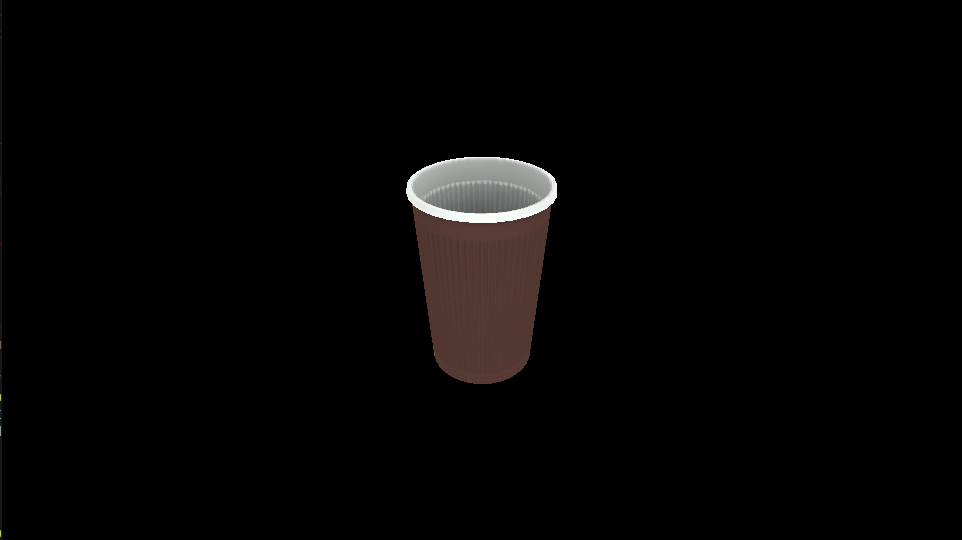
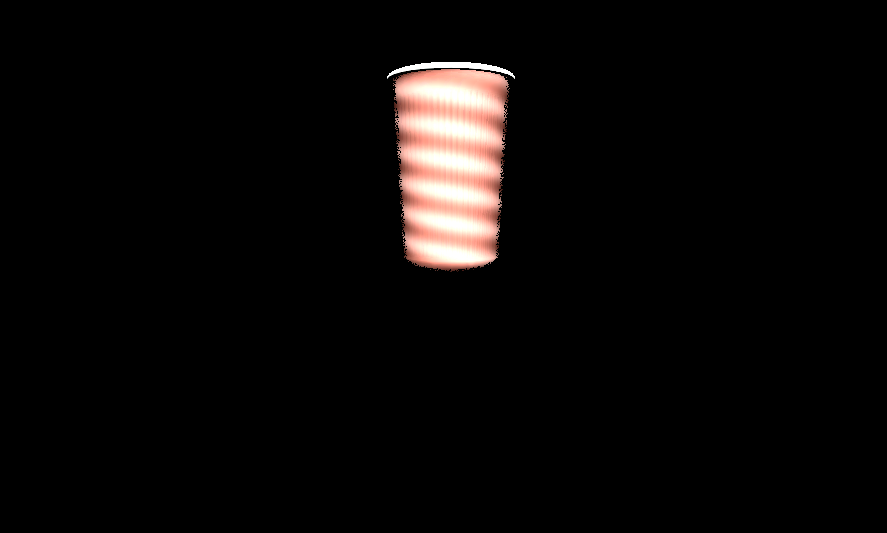
Candy Cane fragment shader

Changed region(s): [[0.3957, 0.0901, 0.5784, 0.7205]]

diff --git a/Lib/shaders.py b/Lib/shaders.py
@@ -44,3 +44,111 @@ fragment_shader = """
         fragColor = texture(tex, UVs);
     }
 """
+
+gourad_fragment_shader = """
+    #version 450 core
+    
+    layout (binding = 0) uniform sampler2D tex;
+
+    uniform vec3 dirLight;
+
+    uniform float lightIntensity;
+
+    in vec2 UVs;
+    in vec3 normal;
+    out vec4 fragColor;
+    
+    void main() {
+        float intensity = dot(normal, -dirLight) * lightIntensity;
+        fragColor = texture(tex, UVs) * intensity;
+    }
+"""
+
+cell_fragment_shader = """
+    #version 450 core
+
+    layout (binding = 0) uniform sampler2D tex;
+
+    uniform vec3 dirLight;
+    uniform float lightIntensity;
+    uniform float time;
+
+    in vec2 UVs;
+    in vec3 normal;
+    out vec4 fragColor;
+
+    float rand(vec2 co) {
+        return fract(sin(dot(co.xy ,vec2(12.9898,78.233))) * 43758.5453);
+    }
+
+    void main() {
+        float edgeSens = 0.4 + 0.1 * sin(time + rand(UVs));
+        float intensity = 0.85 + 0.15 * sin(time + rand(UVs));
+
+        float gouraudIntensity = dot(normal, -dirLight) * lightIntensity;
+        vec4 color = texture(tex, UVs) * gouraudIntensity;
+        
+        float gintensity = 0.2989 * color.r + 0.5870 * color.g + 0.1140 * color.b;
+        
+        if (gintensity > edgeSens) {
+            fragColor = color;
+        } else if (gintensity > intensity) {
+            fragColor = vec4(0, 0, 0, 1);
+        } else {
+            fragColor = vec4(0, 0, 0, 1);
+        }
+    }
+
+"""
+
+multicolor_fragment_shader = """
+    #version 450 core
+
+    layout (binding = 0) uniform sampler2D tex;
+
+    uniform vec3 dirLight;
+    uniform float lightIntensity;
+    uniform float time;
+
+    in vec2 UVs;
+    in vec3 normal;
+    out vec4 fragColor;
+
+    void main() {
+        float intensity = dot(normal, -dirLight) * lightIntensity;
+        vec3 gradientColor = vec3(UVs.y + sin(time * normal.x), UVs.x + cos(time * normal.y), 1.0 - UVs.x + tan(time * normal.z));
+        fragColor = vec4(gradientColor, 1.0) * intensity;
+    }
+"""
+
+candy_cane_fragment_shader = """
+    #version 450 core
+
+layout (binding = 0) uniform sampler2D tex;
+
+uniform vec3 dirLight;
+uniform float lightIntensity;
+uniform float time;
+
+in vec2 UVs;
+in vec3 normal;
+out vec4 fragColor;
+
+void main() {
+    float intensity = dot(normal, -dirLight) * lightIntensity;
+    vec4 color = texture(tex, UVs) * intensity;
+
+    float gintensity = 0.2989 * color.r + 0.5870 * color.g + 0.1140 * color.b;
+    float edgeSens = 0.4 + 0.1 * sin(time + sin(UVs.x * 12.9898 + UVs.y * 78.233) * 43758.5453);
+
+    // Introduce a stronger glitch effect
+    float glitchIntensity = sin(UVs.x * 12.9898 + UVs.y * 78.233 + time * 10.0) * 0.2; // Increase glitch amplitude
+    if (gintensity > edgeSens) {
+        fragColor = color + vec4(glitchIntensity, glitchIntensity, glitchIntensity, 0.0);
+    } else {
+        fragColor = vec4(0, 0, 0, 1);
+    }
+}
+"""
+
+

diff --git a/Lib/model.py b/Lib/model.py
@@ -20,8 +20,8 @@ from numpy import array, float32
 class Model(object):
     def __init__(self, data):
         self.vertexBuffer = array(data, dtype=float32)
-        self.VBO = glGenBuffers(1)  #Vertex Buffer Object
-        self.VAO = glGenVertexArrays(1)  #Vertex Array Object
+        self.VBO = glGenBuffers(1) 
+        self.VAO = glGenVertexArrays(1) 
         self.position = glm.vec3(0.0, 0.0, 0.0)
         self.rotation = glm.vec3(0.0, 0.0, 0.0)
         self.scale = glm.vec3(1.0, 1.0, 1.0)
@@ -55,7 +55,6 @@ class Model(object):
                      self.vertexBuffer, 
                      GL_STATIC_DRAW)
 
-        #Positions: Attribute number, size, type, normalized, stride, offset
         glVertexAttribPointer(0, 
                               3, 
                               GL_FLOAT, 
@@ -64,7 +63,6 @@ class Model(object):
                               ctypes.c_void_p(0))
         glEnableVertexAttribArray(0)
 
-        #TexCoords
         glVertexAttribPointer(1, 
                               2, 
                               GL_FLOAT, 
@@ -73,21 +71,21 @@ class Model(object):
                               ctypes.c_void_p(4 * 3))
         glEnableVertexAttribArray(1)
 
-        #Texture
         glActiveTexture(GL_TEXTURE0)
         glBindTexture(GL_TEXTURE_2D, self.textureBuffer)
         glTexImage2D(
-            GL_TEXTURE_2D,  #Texture Type
-            0,  #Position
-            GL_RGB,  #Format
-            self.textureSurface.get_width(),  #Width
-            self.textureSurface.get_height(),  #Height
-            0,  #Border
-            GL_RGB,  #Format
-            GL_UNSIGNED_BYTE,  #Type
-            self.textureData  #Data
+            GL_TEXTURE_2D,  
+            0,  
+            GL_RGB,  
+            self.textureSurface.get_width(),  
+            self.textureSurface.get_height(),  
+            0,  
+            GL_RGB,  
+            GL_UNSIGNED_BYTE,  
+            self.textureData  
         )
         glGenerateTextureMipmap(self.textureBuffer)
+
 
         #Normals
         glVertexAttribPointer(2, 
@@ -96,6 +94,8 @@ class Model(object):
                               GL_FALSE, 
                               4 * 8, 
                               ctypes.c_void_p(4 * 5))
+        
+        glEnableVertexAttribArray(2)
 
         #Draw
         glDrawArrays(GL_TRIANGLES, 0, len(self.vertexBuffer) // 8)

diff --git a/Main.py b/Main.py
@@ -75,10 +75,11 @@ printProgressBar(2, 4, prefix = 'Progreso: ', suffix = 'Completado: Creacion de 
 model = Model(objData)
 model.loadTexture("Res/Textures/cup.bmp")
 model.position.z = -6
-model.position.y = -1
+model.position.y = 0
 model.scale = glm.vec3(1, 1, 1)
-
 renderer.scene.append(model)
+renderer.lightIntensity = 5.5
+renderer.dirLight = glm.vec3(0.0, -1.0, -1.0)
 
 printProgressBar(3, 4, prefix = 'Progreso: ', suffix = 'Completado: Cargado de modelo    ', length = 50)
 
@@ -113,16 +114,29 @@ while isRunning:
         model.rotation.x -= deltaTime * 50
 
 
-
     for event in pygame.event.get():
         if event.type == pygame.QUIT:
             isRunning = False
         elif event.type == pygame.KEYDOWN:
             if event.key == pygame.K_ESCAPE:
                 isRunning = False
+            if event.key == pygame.K_1:
+                print("Original")
+                renderer.setShader(vertex_shader, fragment_shader)
+            if event.key == pygame.K_2:
+                print("Gourad")
+                renderer.setShader(vertex_shader, gourad_fragment_shader)
+            if event.key == pygame.K_3:
+                print("Cell")
+                renderer.setShader(vertex_shader, cell_fragment_shader)
+            if event.key == pygame.K_4:
+                print("Multicolor")
+                renderer.setShader(vertex_shader, multicolor_fragment_shader)
+            if event.key == pygame.K_5:
+                print("Candy Cane")
+                renderer.setShader(vertex_shader, candy_cane_fragment_shader)
 
     renderer.render()
     pygame.display.flip()
 
 pygame.quit()
-

diff --git a/Lib/renderer.py b/Lib/renderer.py
@@ -34,6 +34,9 @@ class Renderer(object):
         )
         self.elapsedTime = 0.0
 
+        self.dirLight = glm.vec3(1, 0, 0)
+        self.lightIntensity = 1.0
+
         glEnable(GL_DEPTH_TEST)
         glViewport(0, 0, self.width, self.height)
 
@@ -78,6 +81,15 @@ class Renderer(object):
             glUniform1f(
                 glGetUniformLocation(self.activeShader, "time"),
                 self.elapsedTime
+            )
+            glUniform3fv(
+                glGetUniformLocation(self.activeShader, "dirLight"),
+                1,
+                glm.value_ptr(self.dirLight)
+            )
+            glUniform1f(
+                glGetUniformLocation(self.activeShader, "lightIntensity"),
+                self.lightIntensity
             )
 
         for obj in self.scene:

diff --git a/README.md b/README.md
@@ -42,4 +42,4 @@ Una vez terminado el setup podemos proceder a ejecutar el archivo ```Main.py``` 
   ```  
 
 ## Resultado
-
+![Result]("/Result.jpg")
